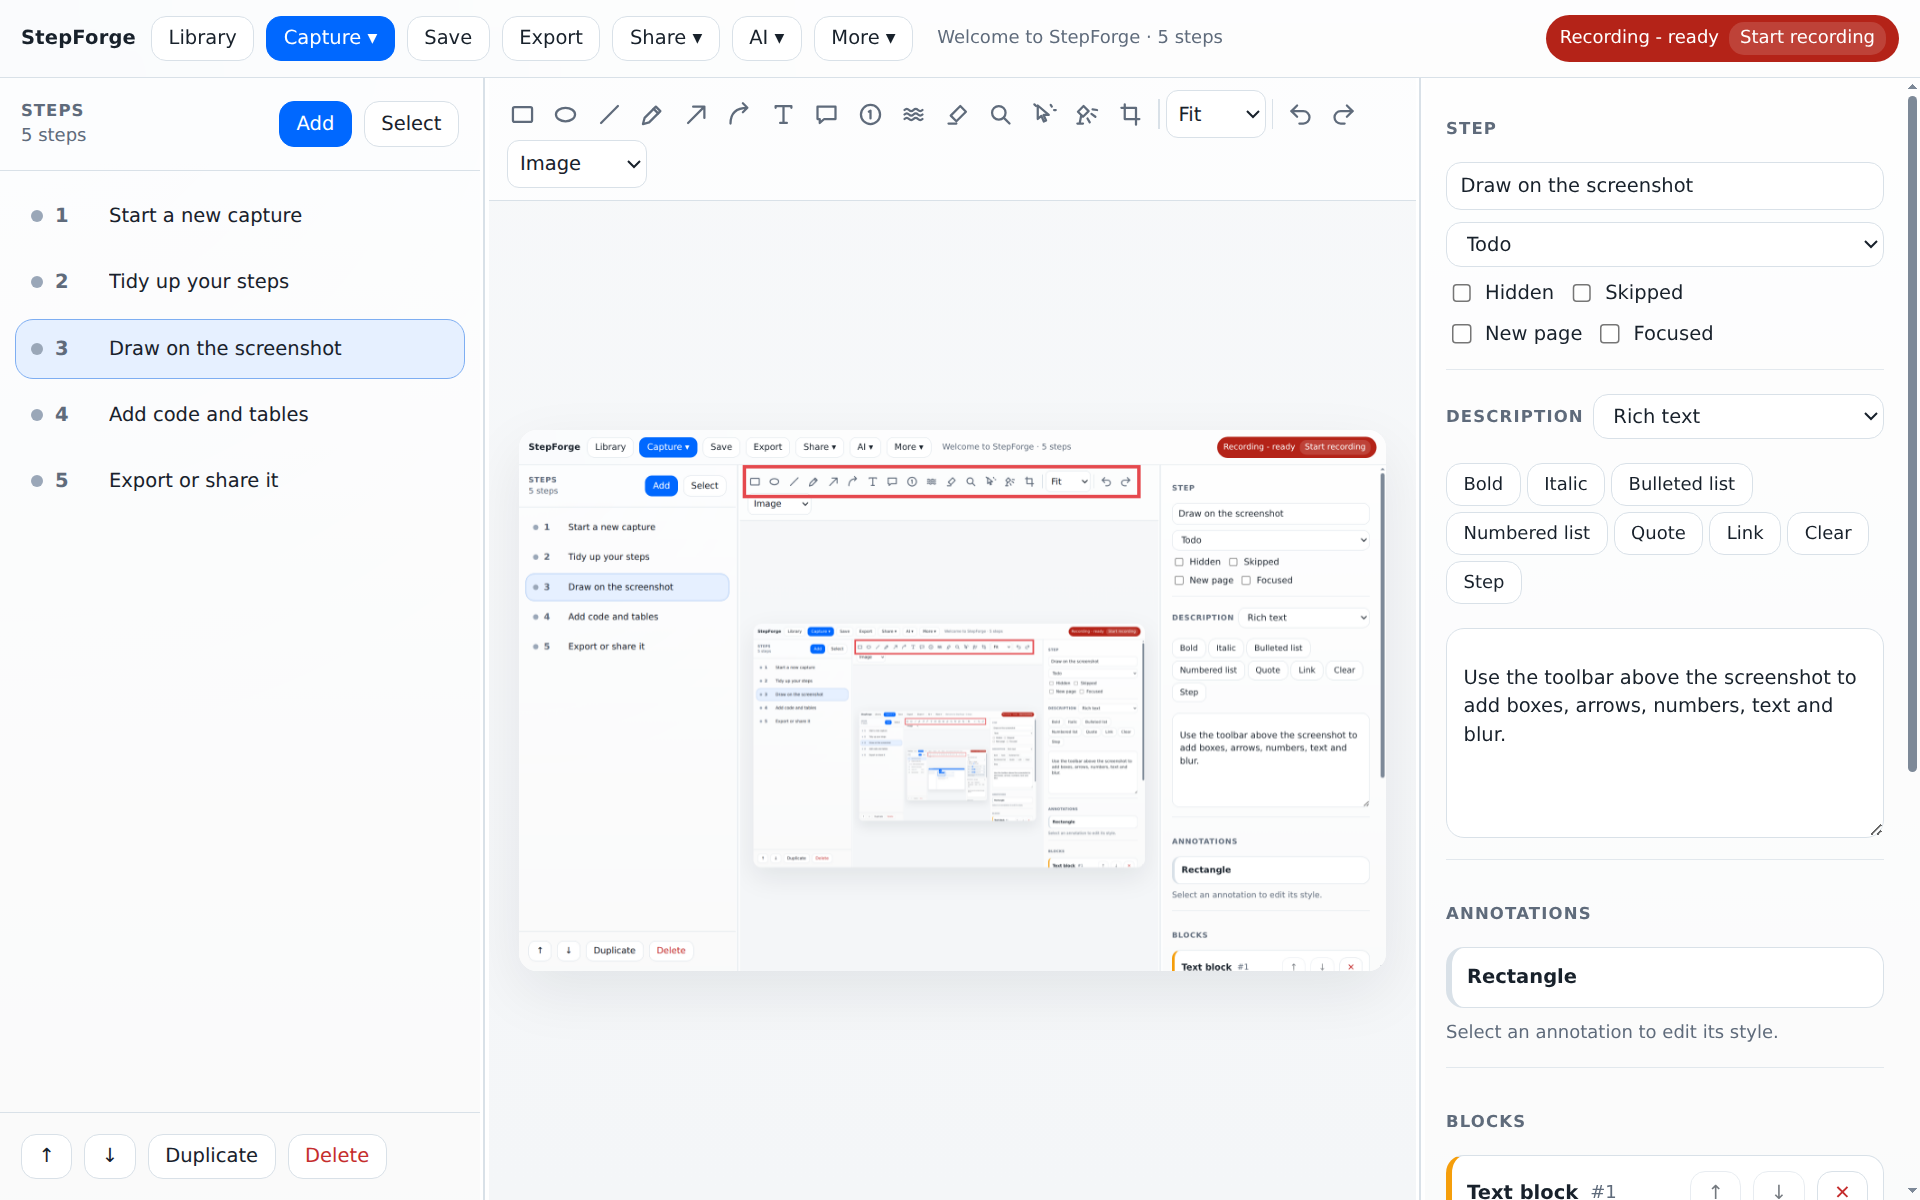
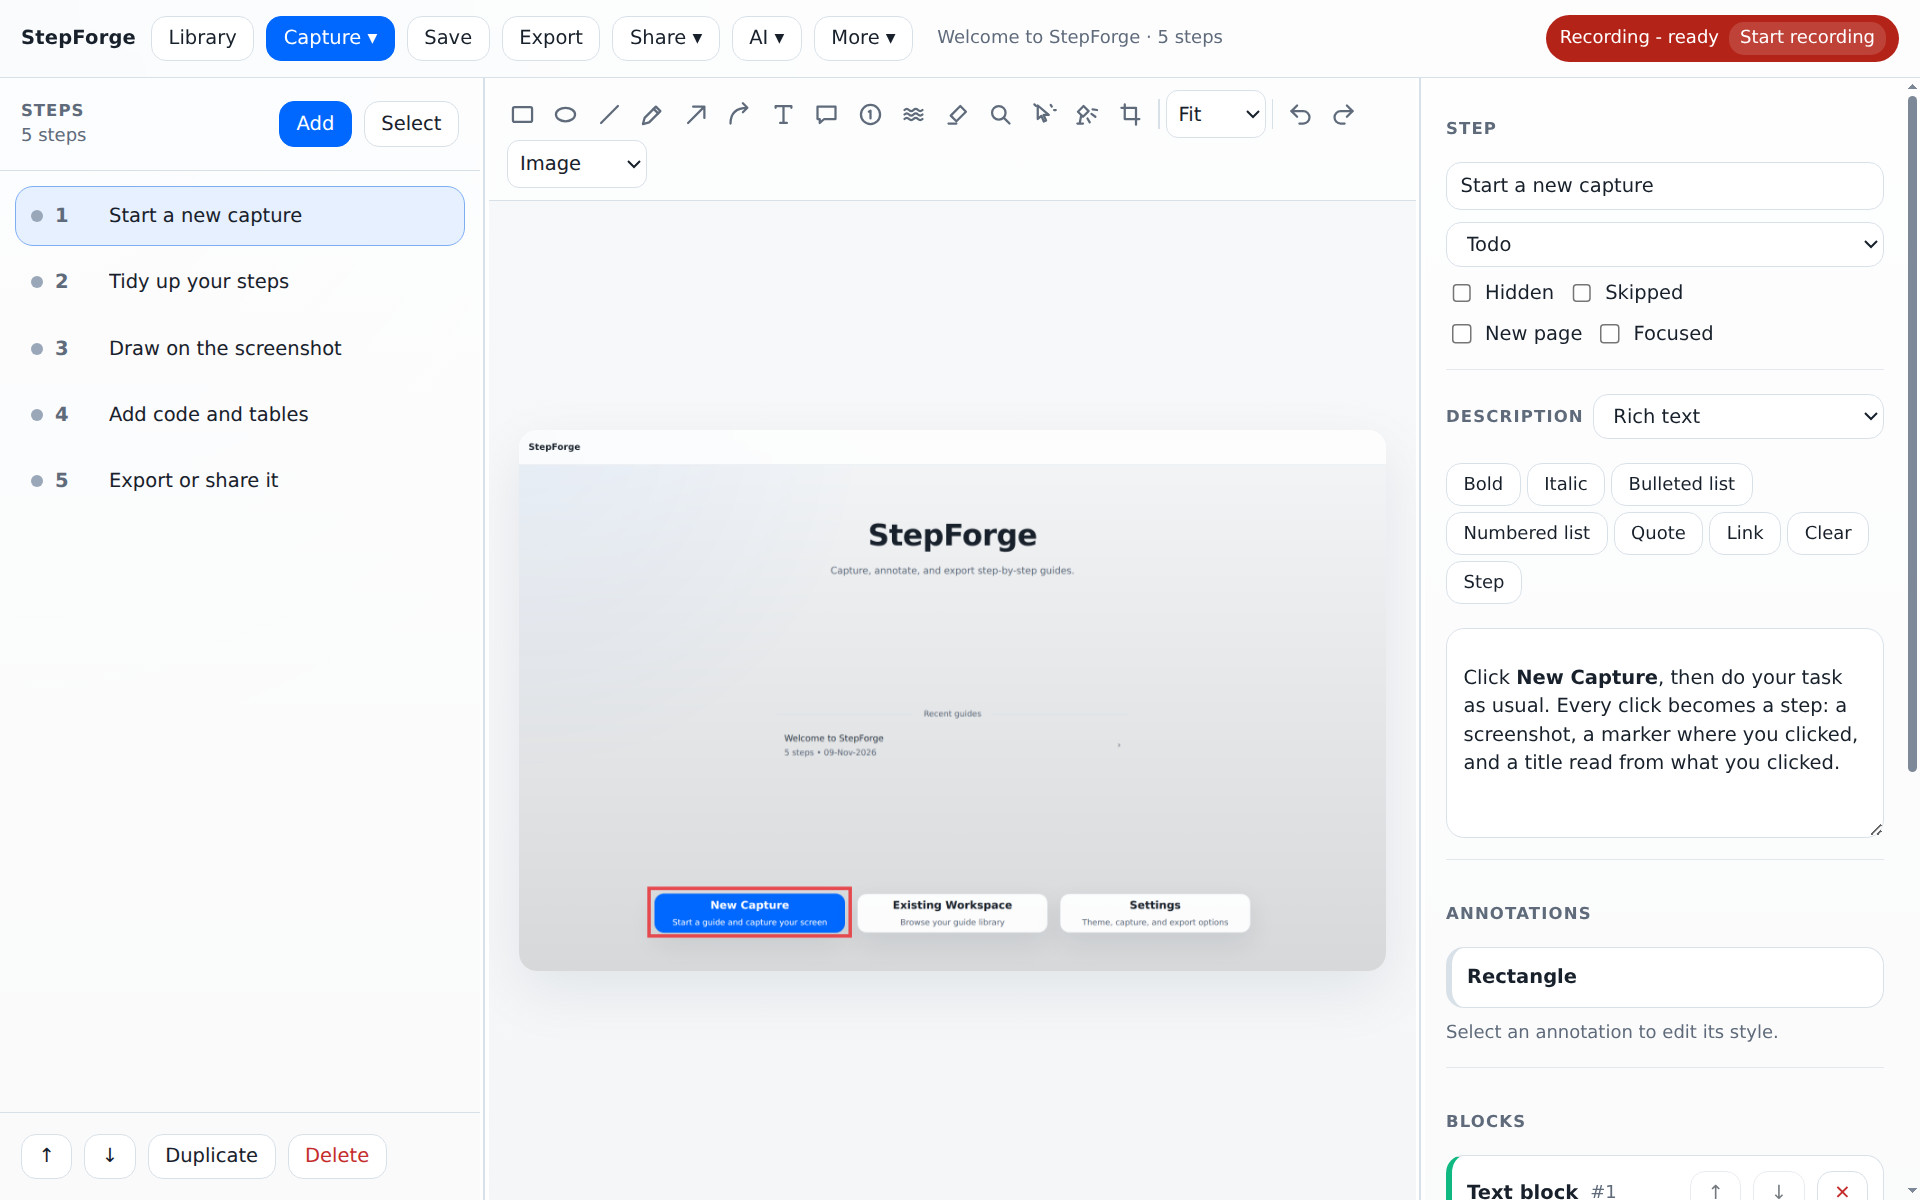
Welcome guide: one plain picture in the editor screenshots; shorter description
The editor screenshots show step 1's picture (the home screen) instead of
the guide's own step, so they no longer contain themselves.

diff --git a/core/locales/ru.js b/core/locales/ru.js
@@ -2305,7 +2305,7 @@
   "The SVG is nested too deeply.": "В SVG слишком глубокая вложенность.",
   "Arrows / Shift+Arrows": "Стрелки / Shift+Стрелки",
   "Welcome to StepForge": "Добро пожаловать в StepForge",
-  "A sample guide to show you around. Delete it whenever you like: it won’t come back.": "Пример инструкции, чтобы познакомиться с программой. Удалите её когда угодно — она больше не появится.",
+  "A sample guide to show you around.": "Пример инструкции, чтобы познакомиться с программой.",
   "Start a new capture": "Начните новую запись",
   "Click {button}, then do your task as usual. Every click becomes a step: a screenshot, a marker where you clicked, and a title read from what you clicked.": "Нажмите {button} и выполняйте задачу как обычно. Каждый щелчок становится шагом: снимок экрана, отметка в месте щелчка и заголовок по тому, на что вы нажали.",
   "When you’re done, click {button} at the top right.": "Когда закончите, нажмите {button} в правом верхнем углу.",

diff --git a/core/locales/ja.js b/core/locales/ja.js
@@ -2305,7 +2305,7 @@
   "The SVG is nested too deeply.": "SVG の入れ子が深すぎます。",
   "Arrows / Shift+Arrows": "矢印キー / Shift+矢印キー",
   "Welcome to StepForge": "StepForge へようこそ",
-  "A sample guide to show you around. Delete it whenever you like: it won’t come back.": "StepForge の使い方を紹介するサンプル ガイドです。いつでも削除でき、削除すると再び表示されることはありません。",
+  "A sample guide to show you around.": "StepForge の使い方を紹介するサンプル ガイドです。",
   "Start a new capture": "新しいキャプチャを開始する",
   "Click {button}, then do your task as usual. Every click becomes a step: a screenshot, a marker where you clicked, and a title read from what you clicked.": "{button} をクリックし、いつもどおりに作業します。クリックするたびにステップが作成されます。スクリーンショット、クリックした位置のマーカー、クリックした項目から読み取ったタイトルが含まれます。",
   "When you’re done, click {button} at the top right.": "終わったら、右上の {button} をクリックします。",

diff --git a/core/locales/fr.js b/core/locales/fr.js
@@ -2305,7 +2305,7 @@
   "The SVG is nested too deeply.": "Le SVG est imbriqué trop profondément.",
   "Arrows / Shift+Arrows": "Flèches / Maj+Flèches",
   "Welcome to StepForge": "Bienvenue dans StepForge",
-  "A sample guide to show you around. Delete it whenever you like: it won’t come back.": "Un guide d’exemple pour vous faire découvrir l’application. Supprimez-le quand vous voulez : il ne reviendra pas.",
+  "A sample guide to show you around.": "Un guide d’exemple pour vous faire découvrir l’application.",
   "Start a new capture": "Lancer une nouvelle capture",
   "Click {button}, then do your task as usual. Every click becomes a step: a screenshot, a marker where you clicked, and a title read from what you clicked.": "Cliquez sur {button}, puis effectuez votre tâche comme d’habitude. Chaque clic devient une étape : une capture d’écran, un repère à l’endroit du clic et un titre tiré de l’élément cliqué.",
   "When you’re done, click {button} at the top right.": "Quand vous avez terminé, cliquez sur {button} en haut à droite.",

diff --git a/core/locales/es.js b/core/locales/es.js
@@ -2305,7 +2305,7 @@
   "The SVG is nested too deeply.": "El SVG tiene demasiados niveles de anidamiento.",
   "Arrows / Shift+Arrows": "Flechas / Mayús+Flechas",
   "Welcome to StepForge": "Bienvenido a StepForge",
-  "A sample guide to show you around. Delete it whenever you like: it won’t come back.": "Una guía de ejemplo para enseñarte cómo funciona. Bórrala cuando quieras: no volverá a aparecer.",
+  "A sample guide to show you around.": "Una guía de ejemplo para enseñarte cómo funciona.",
   "Start a new capture": "Inicia una nueva captura",
   "Click {button}, then do your task as usual. Every click becomes a step: a screenshot, a marker where you clicked, and a title read from what you clicked.": "Haz clic en {button} y luego realiza tu tarea como siempre. Cada clic se convierte en un paso: una captura de pantalla, una marca donde hiciste clic y un título tomado de lo que pulsaste.",
   "When you’re done, click {button} at the top right.": "Cuando termines, haz clic en {button}, arriba a la derecha.",

diff --git a/core/locales/zh-CN.js b/core/locales/zh-CN.js
@@ -2305,7 +2305,7 @@
   "The SVG is nested too deeply.": "SVG 嵌套层级过深。",
   "Arrows / Shift+Arrows": "方向键 / Shift+方向键",
   "Welcome to StepForge": "欢迎使用 StepForge",
-  "A sample guide to show you around. Delete it whenever you like: it won’t come back.": "这是一份带你熟悉 StepForge 的示例指南。你可以随时删除它，删除后不会再出现。",
+  "A sample guide to show you around.": "这是一份带你熟悉 StepForge 的示例指南。",
   "Start a new capture": "开始新的捕获",
   "Click {button}, then do your task as usual. Every click becomes a step: a screenshot, a marker where you clicked, and a title read from what you clicked.": "点击 {button}，然后照常完成你的任务。每次点击都会成为一个步骤：一张截图、一个点击位置标记，以及根据你点击的内容生成的标题。",
   "When you’re done, click {button} at the top right.": "完成后，点击右上角的 {button}。",

diff --git a/core/welcome-guide.js b/core/welcome-guide.js
@@ -52,7 +52,7 @@ function image(name) {
 function addWelcomeGuide(store, { t, hotkeys = {} } = {}) {
   const guide = store.createGuide({
     title: t('Welcome to StepForge'),
-    descriptionHtml: paragraph(t('A sample guide to show you around. Delete it whenever you like: it won’t come back.')),
+    descriptionHtml: paragraph(t('A sample guide to show you around.')),
   });
   const rect = (x, y, w, h) => ({ type: 'rect', x, y, w, h, style: { stroke: '#E5484D', strokeWidth: 4, fill: 'transparent' } });
   const badge = (value, x, y) => ({ type: 'number', value, x, y, w: 0.045, h: 0.07, style: { stroke: '#E5484D' } });

diff --git a/tests/unit/welcome-guide.test.js b/tests/unit/welcome-guide.test.js
@@ -27,7 +27,7 @@ test('the welcome guide: five steps, four with screenshots, code and a table', (
 
   const guide = store.getGuide(guideId);
   assert.equal(guide.title, 'Welcome to StepForge');
-  assert.match(guide.descriptionHtml, /it won’t come back/);
+  assert.equal(guide.descriptionHtml, '<p>A sample guide to show you around.</p>');
   const steps = guide.stepsOrder.map((id) => store.getStep(guideId, id));
   assert.deepEqual(steps.map((s) => s.title), [
     'Start a new capture', 'Tidy up your steps', 'Draw on the screenshot', 'Add code and tables', 'Export or share it',
